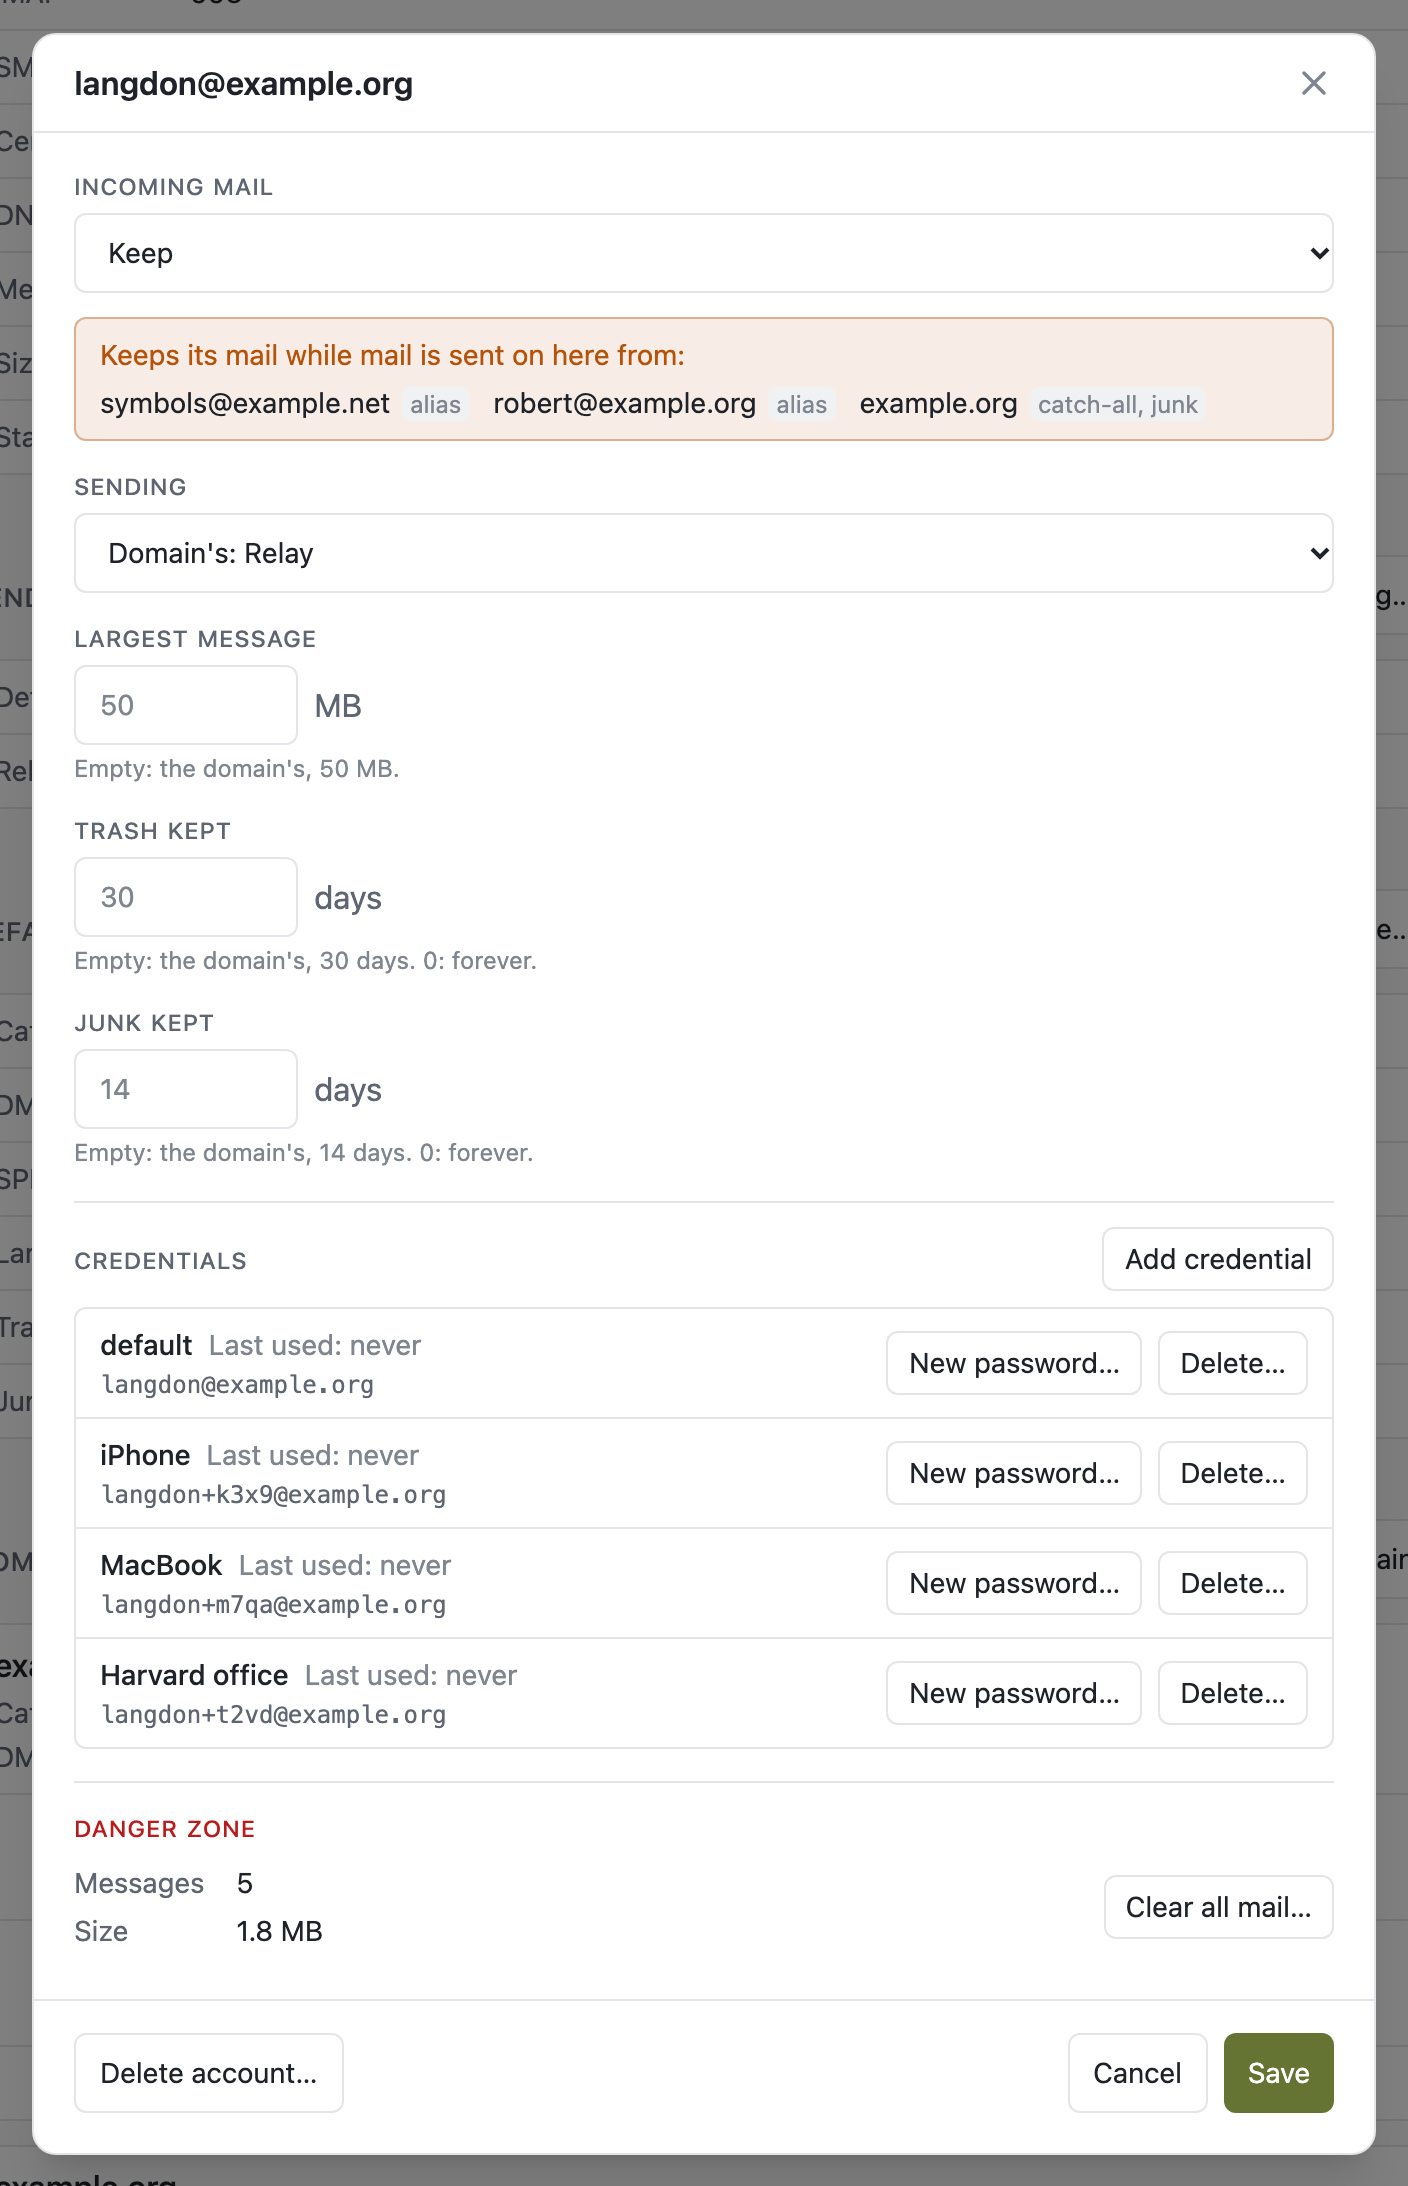
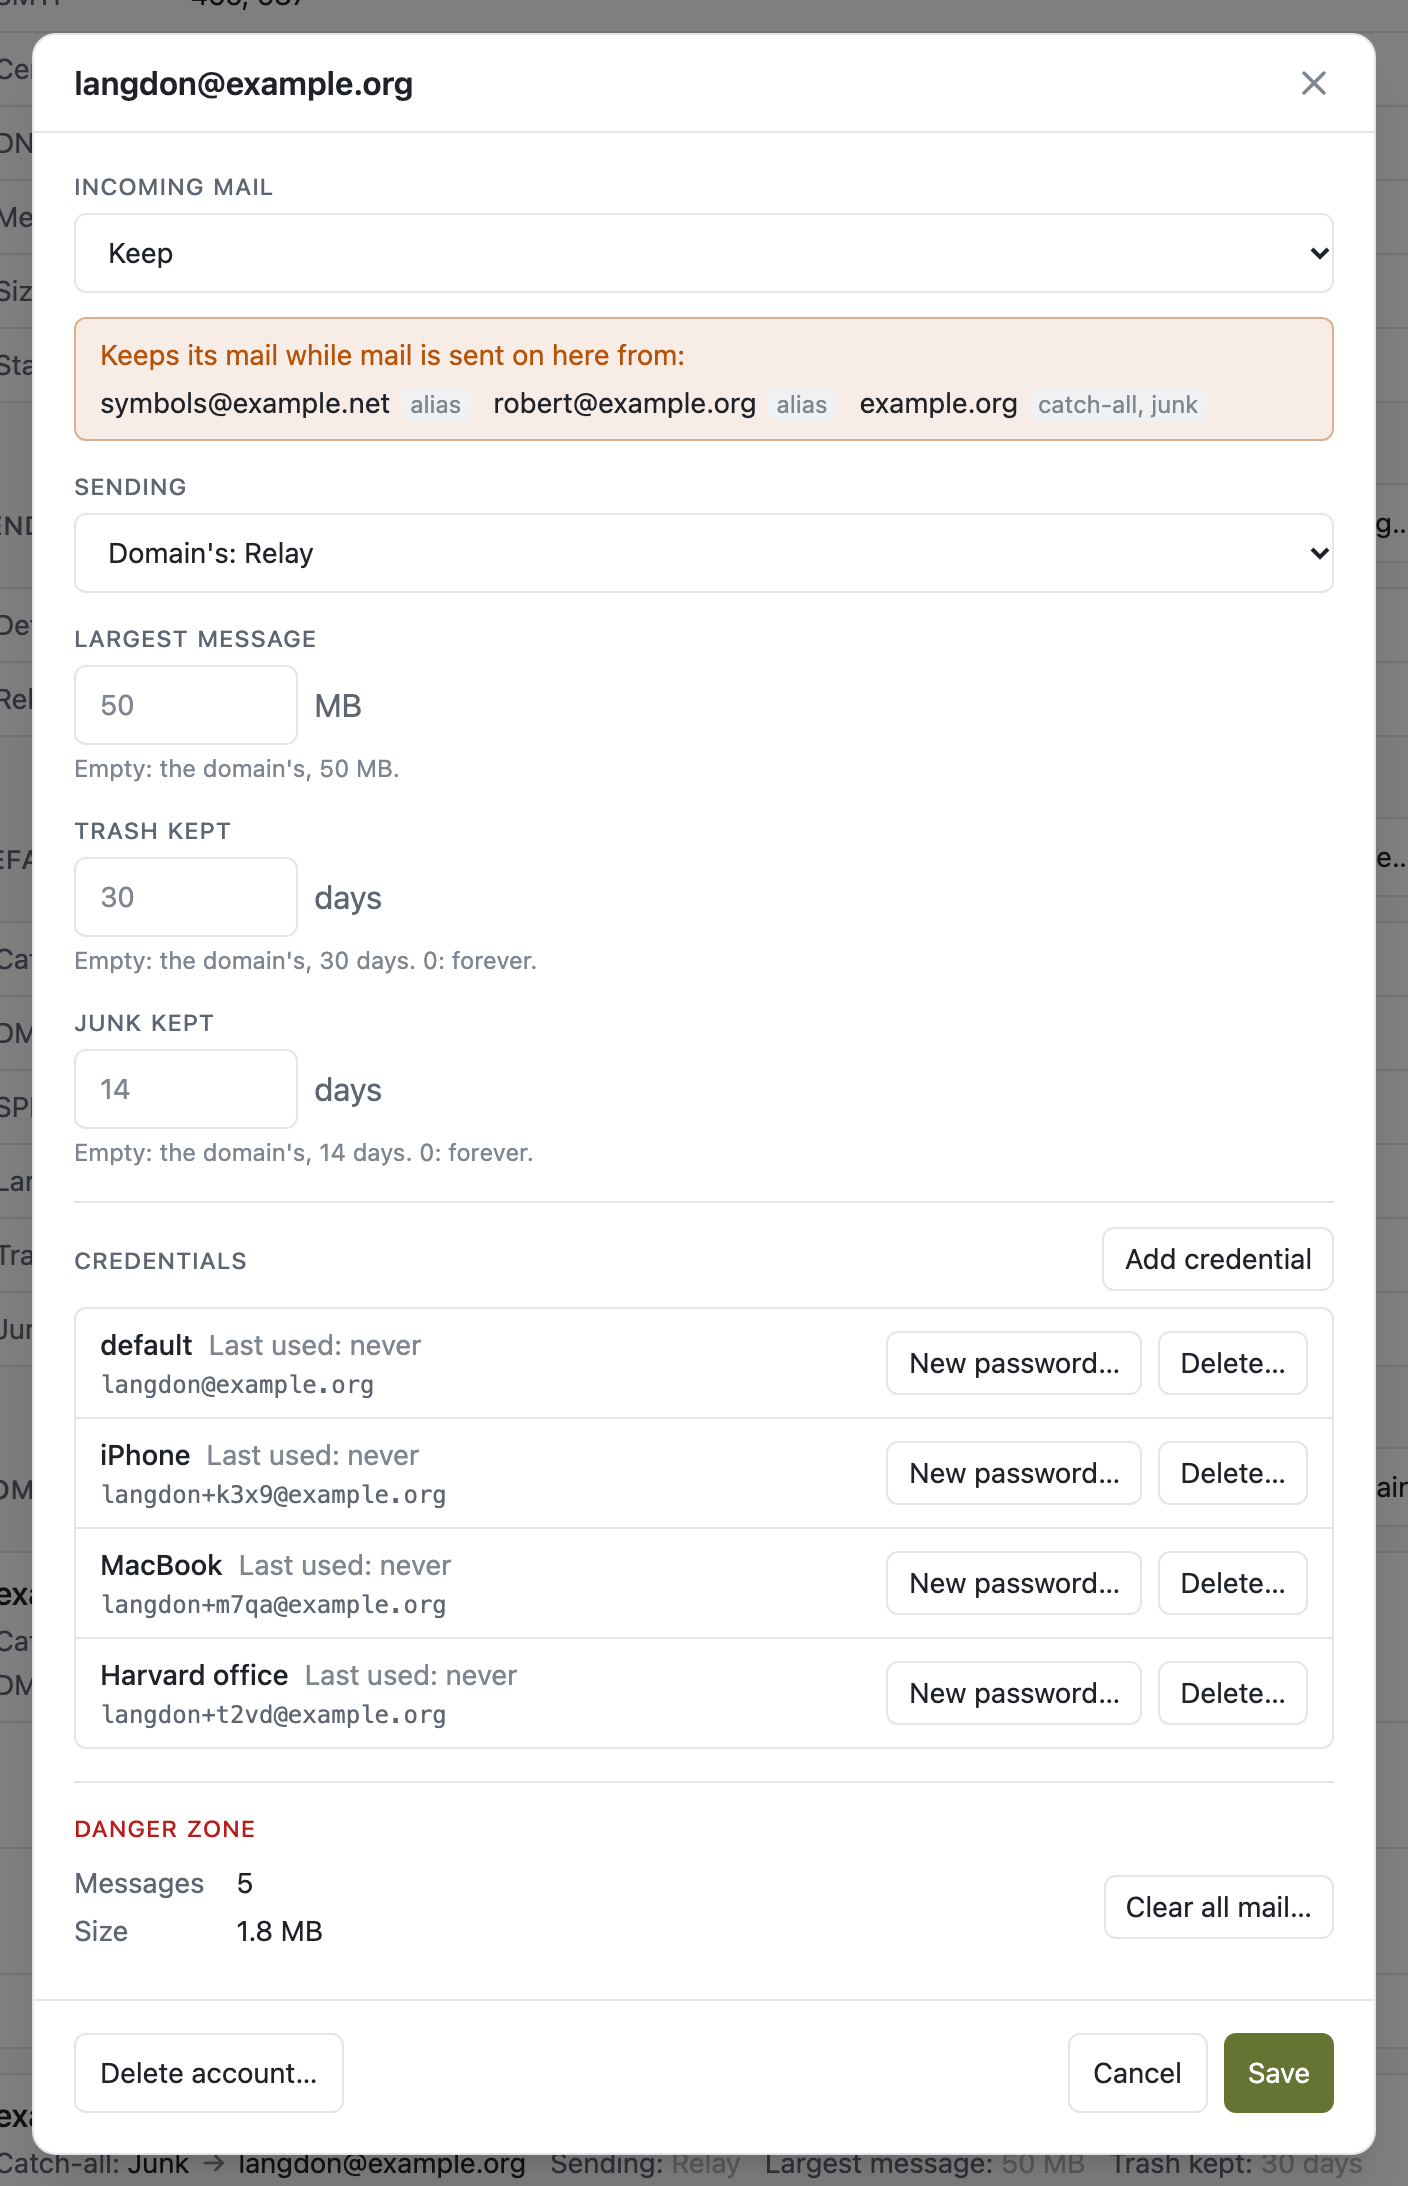
Pad inside the columns rather than around them, so what scrolls reaches the window's edge, and tighten the space above and under the header

diff --git a/web/src/pages/Admin.tsx b/web/src/pages/Admin.tsx
@@ -31,7 +31,8 @@ import { Sending } from "@app/pages/admin/Sending";
  * used, the rest, each column scrolling on its own. Each scrollbar has a lane of its own beside
  * its column, outside the cards, rather than drawn over their edge. Each column is positioned, so
  * what sits in it absolutely, the words a row has for screen readers alone, scrolls with it rather
- * than lengthening the page.
+ * than lengthening the page. The space under the header and at the foot of the page is inside the
+ * columns, so what scrolls reaches the window's edge and the space comes after the last row.
  */
 export function Admin() {
   const me = useQuery({ queryKey: ["me"], queryFn: getMe });
@@ -53,7 +54,7 @@ export function Admin() {
     queue.error ??
     settings.error;
   return (
-    <div className="mx-auto flex w-full max-w-3xl flex-col gap-10 px-4 py-6 lg:h-dvh lg:max-w-6xl">
+    <div className="mx-auto flex w-full max-w-3xl flex-col gap-4 px-4 pt-3 pb-6 lg:h-dvh lg:max-w-6xl lg:gap-0 lg:pb-0">
       <header className="flex items-center gap-4">
         <h1 className="text-xl font-semibold">
           <Wordmark />
@@ -70,7 +71,7 @@ export function Admin() {
         </Button>
       </header>
       {failed && !(failed instanceof ApiError && failed.status === 401) ? (
-        <p className="text-sm text-accent">{messageOf(failed)}</p>
+        <p className="text-sm text-accent lg:pt-4">{messageOf(failed)}</p>
       ) : null}
       {me.data &&
       domains.data &&
@@ -83,7 +84,7 @@ export function Admin() {
         <div className="flex flex-col gap-10 lg:grid lg:min-h-0 lg:flex-1 lg:grid-cols-[24rem_minmax(0,1fr)] lg:grid-rows-[minmax(0,1fr)] lg:gap-x-3">
           {/* Only a box on a wide screen: on a phone its sections are the page's own, the
               queue and the admins after the domains. */}
-          <div className="contents lg:flex lg:relative lg:min-h-0 lg:flex-col lg:gap-10 lg:overflow-y-auto lg:pr-3 lg:[scrollbar-gutter:stable]">
+          <div className="contents lg:flex lg:relative lg:min-h-0 lg:flex-col lg:gap-10 lg:overflow-y-auto lg:pt-4 lg:pr-3 lg:pb-6 lg:[scrollbar-gutter:stable]">
             <MailServer mail={mail.data} accounts={accounts.data} />
             <Sending settings={settings.data} relays={relays.data} />
             <Defaults settings={settings.data} />
@@ -92,7 +93,7 @@ export function Admin() {
               <Admins admins={admins.data} me={me.data} />
             </div>
           </div>
-          <div className="lg:relative lg:-mr-3 lg:min-h-0 lg:overflow-y-auto lg:pr-3 lg:[scrollbar-gutter:stable]">
+          <div className="lg:relative lg:-mr-3 lg:min-h-0 lg:overflow-y-auto lg:pt-4 lg:pr-3 lg:pb-6 lg:[scrollbar-gutter:stable]">
             <Domains
               domains={domains.data}
               settings={settings.data}
